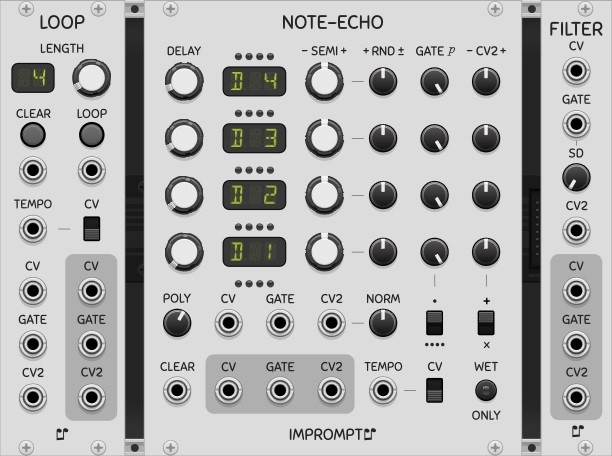
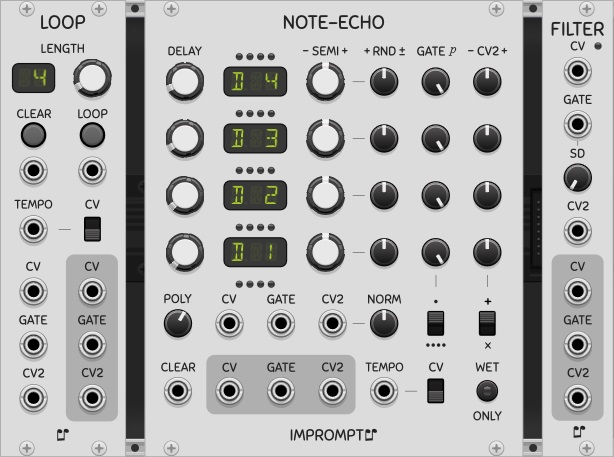
NF add tooltip to filter light, NE remove filter mention from manual entry

diff --git a/src/NoteFilter.cpp b/src/NoteFilter.cpp
@@ -80,6 +80,8 @@ struct NoteFilter : Module {
 		configBypass(CV_INPUT, CV_OUTPUT);
 		configBypass(GATE_INPUT, GATE_OUTPUT);
 		configBypass(CV2_INPUT, CV2_OUTPUT);
+		
+		configLight(FILTER_LIGHT, "Note filtered");
 
 		onReset();
 		

diff --git a/README.md b/README.md
@@ -657,7 +657,7 @@ The loop feature of NoteEcho is meant for a live play context, and thus the inte
 
 In NoteLoop, it’s theoretically possible for timings across different instances to drift slightly from one another when different loop lengths are used and/or when tempo multipliers are used (internal menu option), and thus the modules can potentially become unsynchronized after a long running time. If ever drifting occurs, to alleviate this, an alternate Tempo input mode is available in the right-click menu of the module, to allow receiving the tempo with a BPM-CV instead of clock pulses, thus guaranteeing perfect alignment over time (integer tempo multipliers only).
 
-NoteEcho pairs particularly well with the [ProbKey](#prob-key) module, when using a low density setting on ProbKey. NoteEcho is well adapted to generative music, either controlling instrument VSTs through the VCV-Host module, or synth voices patched in Rack. For patched voices, the usual polyphonic ADSRs, oscillators, quantizers, etc. can easily be used down-chain of NoteEcho. An option in the right-click menu called "Filter out identical notes", when activated, allows a certain amount of redundant note elimination, to avoid multiply hitting the same note when delays interact with the incoming notes. Low CPU mode, also an option in the right-click menu, decreases the rate at which the outputs are refreshed, but does not alter the input processing of the module. 
+NoteEcho pairs particularly well with the [ProbKey](#prob-key) module, when using a low density setting on ProbKey. NoteEcho is well adapted to generative music, either controlling instrument VSTs through the VCV-Host module, or synth voices patched in Rack. For patched voices, the usual polyphonic ADSRs, oscillators, quantizers, etc. can easily be used down-chain of NoteEcho. Low CPU mode, also an option in the right-click menu, decreases the rate at which the outputs are refreshed, but does not alter the input processing of the module. 
 
 ([Back to module list](#modules))
 
